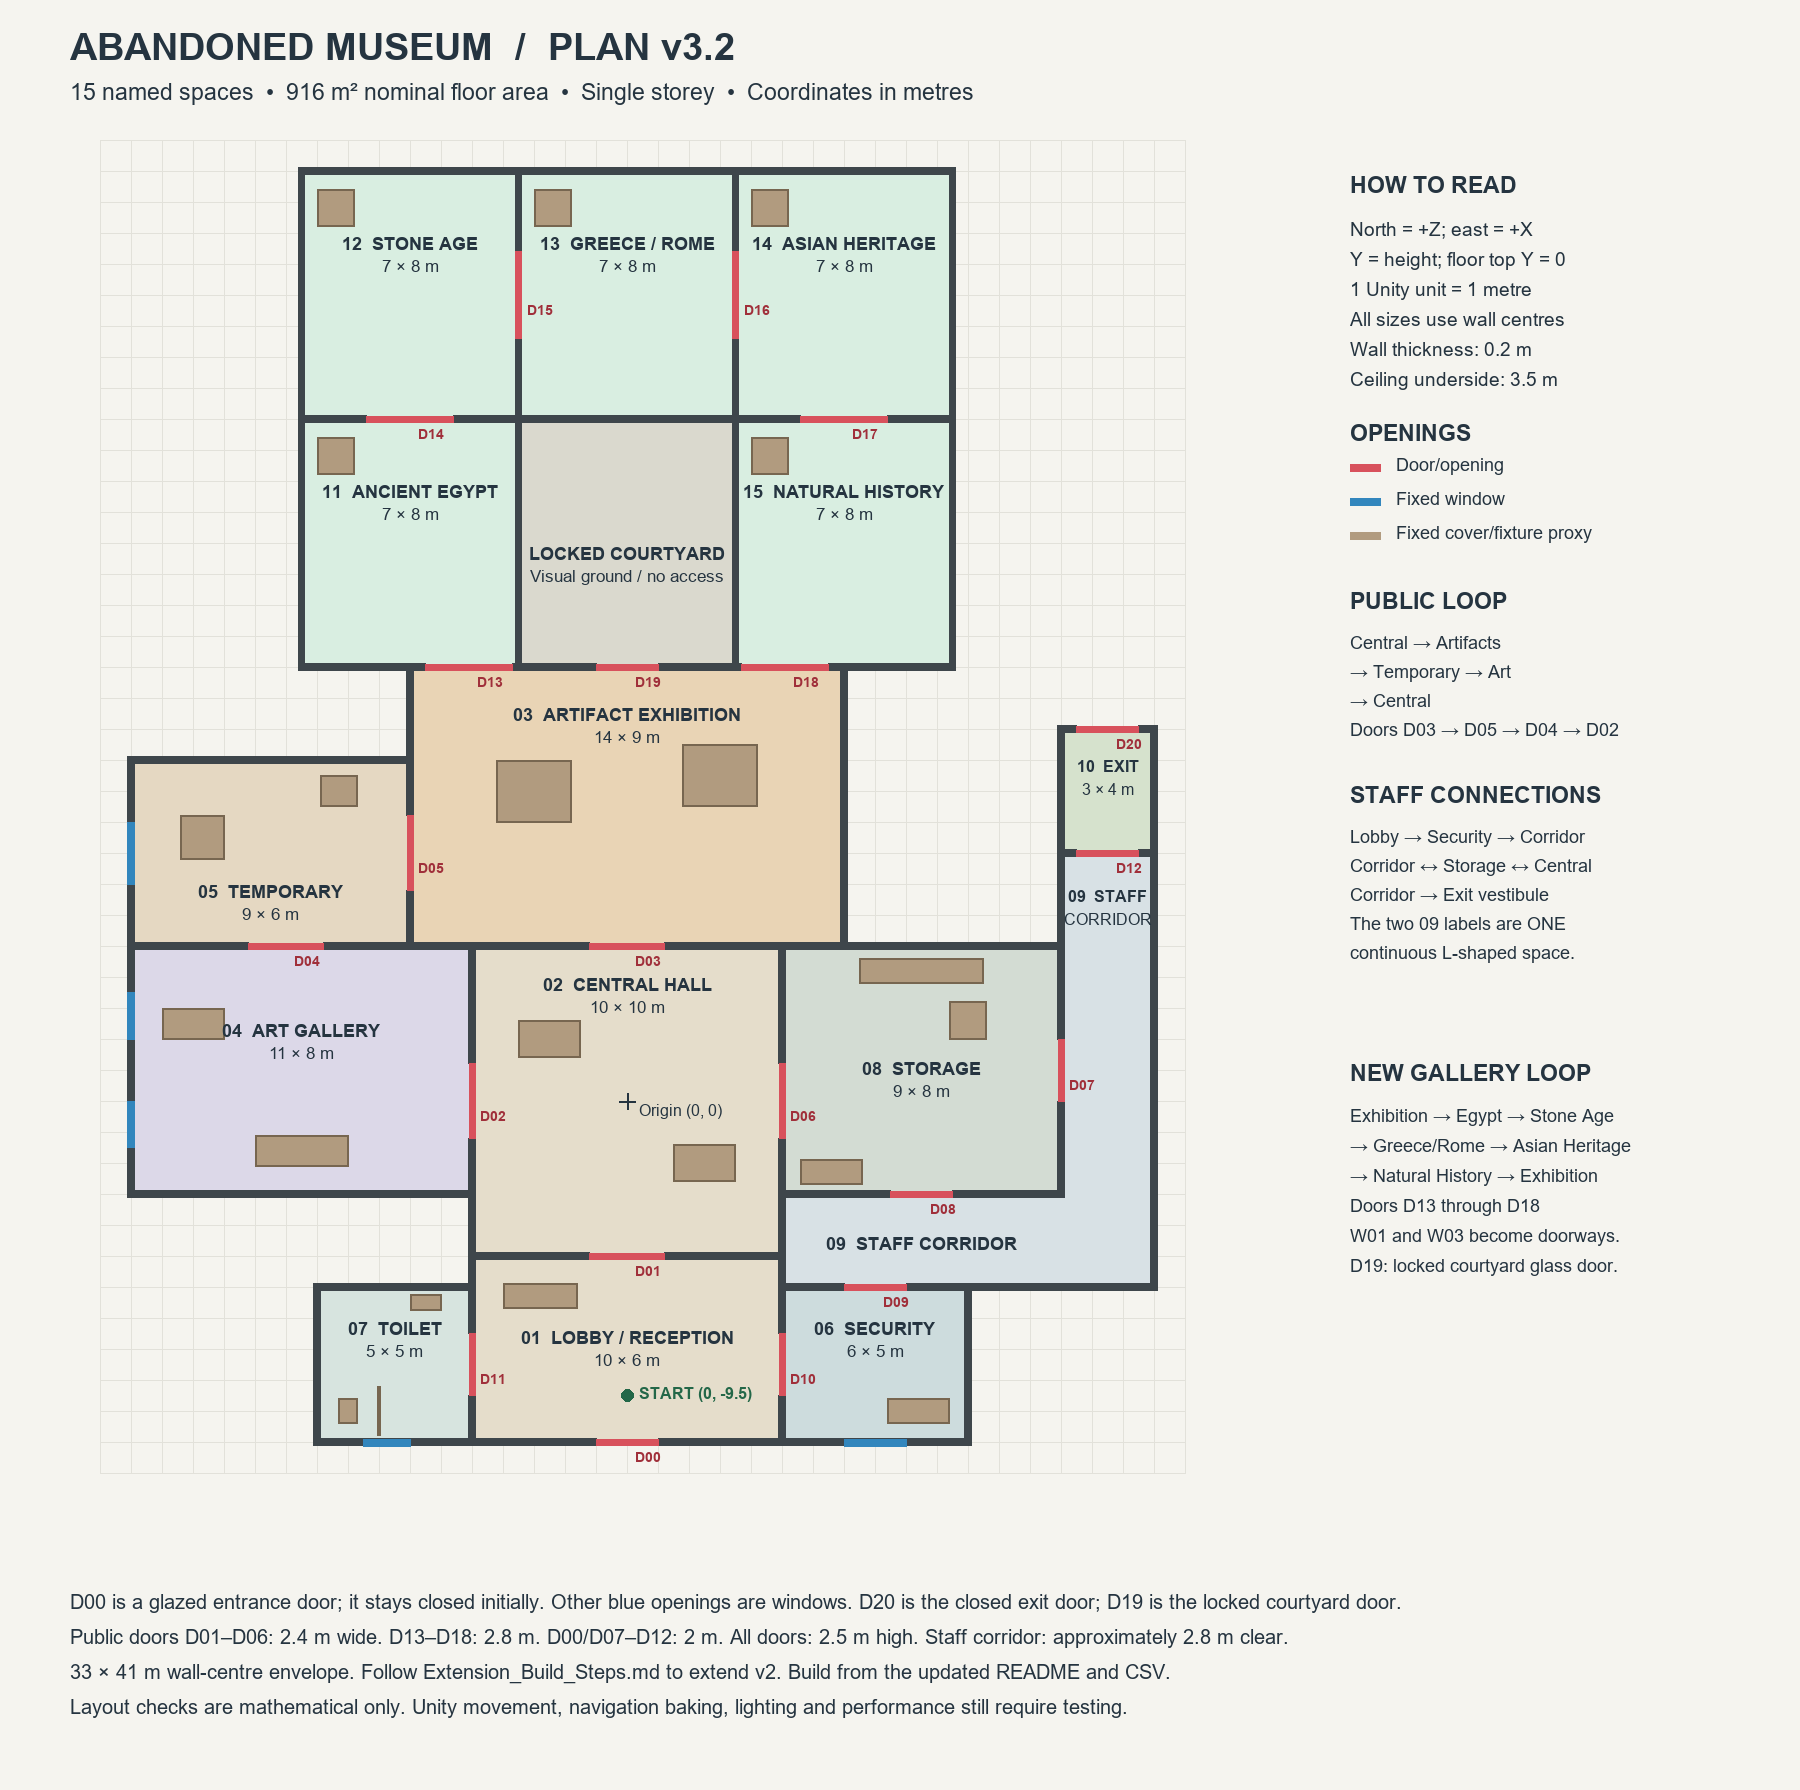
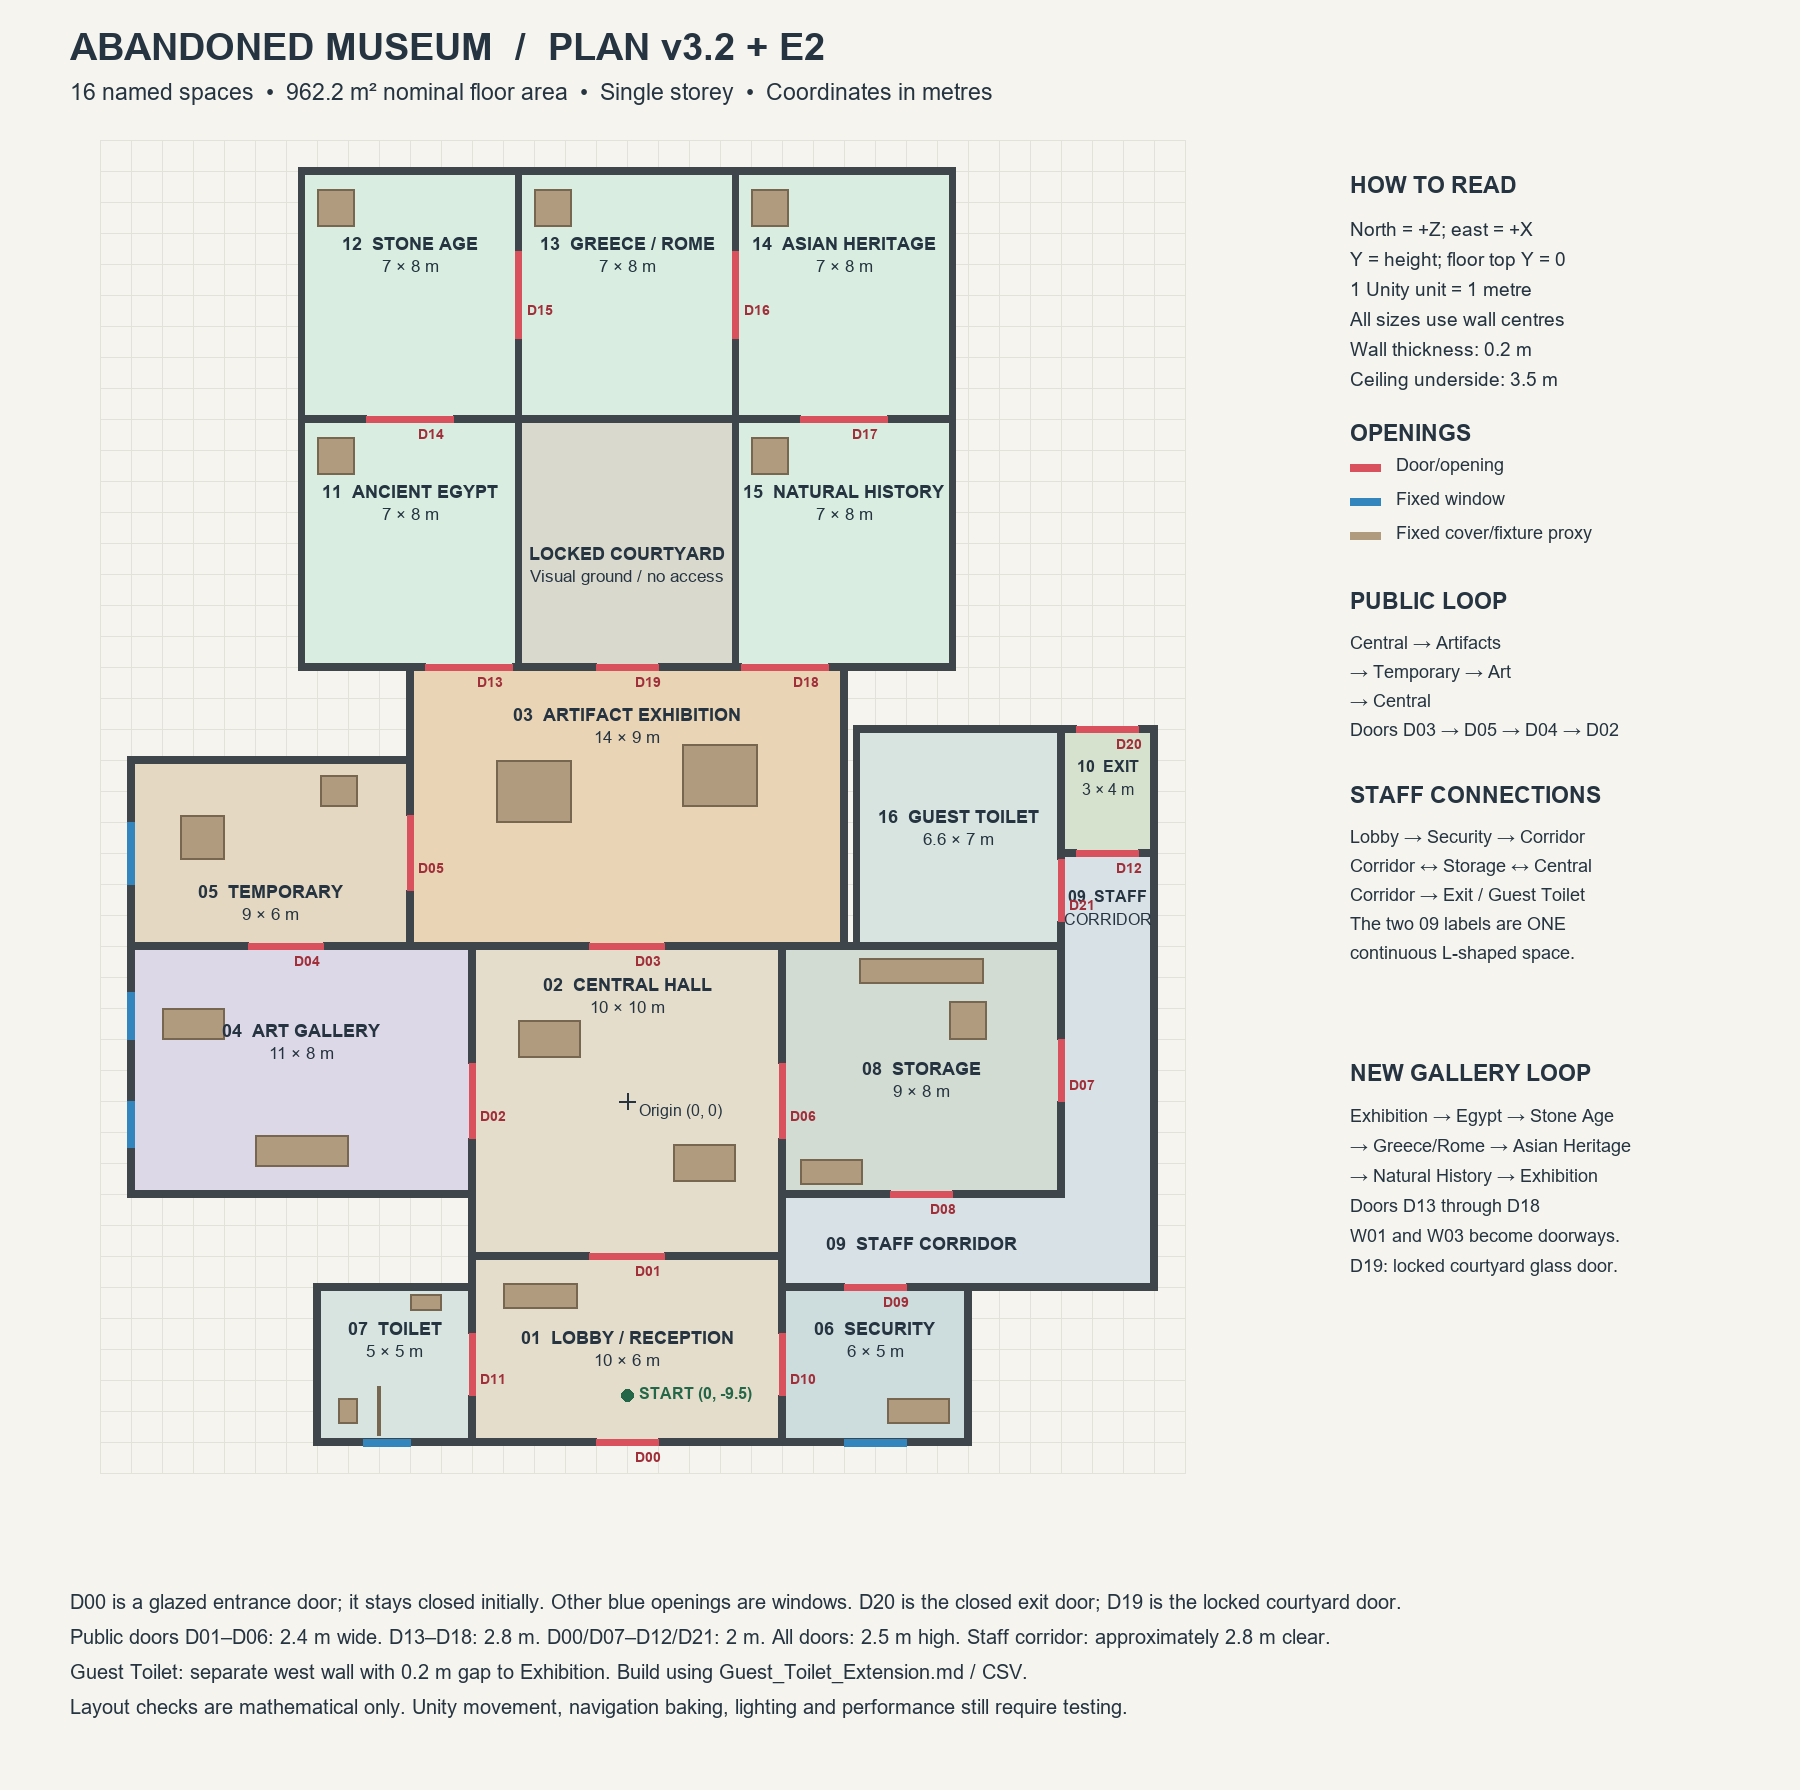
Update museum floor plan and world-building documentation

diff --git a/Docs/DesignDoc.md b/Docs/DesignDoc.md
@@ -1,5 +1,7 @@
 # System Architecture & Technical Design Document
 
+> **Room furniture P3 — 8 October 2026:** [Image-based object placement guide](WorldBuilder/Room_Object_Placement.md) now defines the furniture/exhibit coordinates for all fifteen spaces. It supersedes the earlier cover/decor proposals; shell v3.2 stays unchanged. Placement is planned, not applied to Unity.
+
 > **Current environment specification: museum v3.2, 15 spaces.** [WorldBuilder/README.md](WorldBuilder/README.md) contains the complete coordinate tables; [Extension_Build_Steps.md](WorldBuilder/Extension_Build_Steps.md) preserves the existing skeleton while adding the five-gallery loop. Use `Museum_Main.unity` under `Assets/_Project/Scenes/Museum`. D13–D18 are 2.8 m wide and 2.5 m high. W01/W03 become connections; W02 becomes locked courtyard door D19; W09 becomes closed exit door D20. Student 1 supplies static geometry and initial NavMesh, Student 2 supplies player/interactive physics, Student 3 original models, and Student 4 enemy movement/animation. Rebuild and test navigation after the extension. The legacy warehouse architecture below is not evidence of implemented systems or an instruction to replace the museum scene. Revision 3.2 includes 13 wall-end adjustments for corner closure; room footprints and doorway widths stay unchanged.
 
 ## Overview
@@ -76,3 +78,8 @@ Lockdown.Tests.EditMode
 - **Zero Engine Couplings in Core Math**: Heuristic and search algorithms in `Lockdown.AI.Core` should prioritize pure C# logic and mathematics where feasible, enabling rapid headless testing.
 - **Cross-Domain Communication**:
   - The Player controller (`Lockdown.Runtime` or `Player/`) must never directly reference concrete enemy AI classes (`Lockdown.AI.Agents`). Interaction must occur via `IDamageable`, `IPerceptionTarget`, or events registered on shared interfaces.
+
+> P3 toilet update (9 October 2026): follow Room_Object_Placement.md for the two cubicles and fixed-open damaged door panels. The old open-divider proposal is superseded. Shell v3.2 is unchanged.
+
+
+> Furniture correction P4 (9 October 2026): use the current Room_Object_Placement.md/CSV. Egypt and Natural History graphics now avoid doors; the Security monitor strip clears its window; Egypt gains a west-wall photo. P3 cubicles remain, with the W08 glazing junction clarified in the guide. Shell unchanged.

diff --git a/README.md b/README.md
@@ -1,5 +1,7 @@
 # No Way Out
 
+> **Room furniture P3 — 8 October 2026:** [Image-based object placement guide](Docs/WorldBuilder/Room_Object_Placement.md) now defines the furniture/exhibit coordinates for all fifteen spaces. It supersedes the earlier cover/decor proposals; shell v3.2 stays unchanged. Placement is planned, not applied to Unity.
+
 > **Current World Builder plan: abandoned museum v3.2 (15 spaces).** Use [the build manual](Docs/WorldBuilder/README.md), [extension-only steps](Docs/WorldBuilder/Extension_Build_Steps.md) and [floor plan](Docs/WorldBuilder/Museum_FloorPlan.png). Five northern themed galleries form a loop back to the Exhibition Hall. Existing room footprints stay; W01/W03 become wider connecting doorways W02 becomes locked courtyard door D19; W09 becomes exit door D20. Current scene: `Assets/_Project/Scenes/Museum/Museum_Main.unity`. This is an approved documentation plan; this update changes documents only; confirm current scene progress separately. The warehouse concept and architecture below remain legacy proposals, not current museum construction instructions. Revision 3.2 includes 13 wall-end adjustments for corner closure; room footprints and doorway widths stay unchanged.
 
 > A 3D stealth-action game set inside a rogue automated warehouse. Escape before the blast doors seal — if the AI lets you.
@@ -96,3 +98,8 @@ Open the project in Unity (URP). The project targets Unity 6 or later. Read [CON
 | [`Docs/AI/Stalker.md`](Docs/AI/Stalker.md) | Stalker — stealth hunter agent specification |
 | [`Docs/AIPerformanceLog.md`](Docs/AIPerformanceLog.md) | Benchmarking log: latency, GC alloc, draw calls |
 | [`Docs/OptimisationLog.md`](Docs/OptimisationLog.md) | Optimisation entries with before/after metrics |
+
+> P3 toilet update (9 October 2026): follow Room_Object_Placement.md for the two cubicles and fixed-open damaged door panels. The old open-divider proposal is superseded. Shell v3.2 is unchanged.
+
+
+> Furniture correction P4 (9 October 2026): use the current Room_Object_Placement.md/CSV. Egypt and Natural History graphics now avoid doors; the Security monitor strip clears its window; Egypt gains a west-wall photo. P3 cubicles remain, with the W08 glazing junction clarified in the guide. Shell unchanged.

diff --git a/Docs/ArtBible.md b/Docs/ArtBible.md
@@ -1,5 +1,7 @@
 # Abandoned museum — world art guide (plan v3.2)
 
+> **Room furniture P3 — 8 October 2026:** [Image-based object placement guide](WorldBuilder/Room_Object_Placement.md) now defines the furniture/exhibit coordinates for all fifteen spaces. It supersedes the earlier cover/decor proposals; shell v3.2 stays unchanged. Placement is planned, not applied to Unity.
+
 Use [the current World Builder manual](WorldBuilder/README.md) and [floor plan](WorldBuilder/Museum_FloorPlan.png). This is an art direction target, not a statement that assets or lighting have been completed.
 
 ## Shared style
@@ -23,3 +25,8 @@ Each new room is 7 × 8 m between wall centres. Keep theme differences in displa
 Use the manual's provisional lights, then evaluate with ceilings active. All five galleries share the public material palette and warm lighting family. Darker mood must still allow players to read enemies and openings. The central open-air gap stays inaccessible behind the locked glass door D19, with visual-only ground and no courtyard NavMesh; no playable courtyard is required.
 
 D13–D18 are 2.8 m wide × 2.5 m high. Preserve their approach space and primary routes when replacing greybox props. Re-test player and enemy movement after art/collider changes. Student 1 handles materials, lighting and static props; working doors and movable objects belong to Student 2.
+
+> P3 toilet update (9 October 2026): follow Room_Object_Placement.md for the two cubicles and fixed-open damaged door panels. The old open-divider proposal is superseded. Shell v3.2 is unchanged.
+
+
+> Furniture correction P4 (9 October 2026): use the current Room_Object_Placement.md/CSV. Egypt and Natural History graphics now avoid doors; the Security monitor strip clears its window; Egypt gains a west-wall photo. P3 cubicles remain, with the W08 glazing junction clarified in the guide. Shell unchanged.

diff --git a/Docs/WorldBuilder/README.md b/Docs/WorldBuilder/README.md
@@ -1,4 +1,11 @@
+
+
+> **Guest toilet extension E2 (9 October 2026):** Use Guest_Toilet_Extension.md and its CSV. Room footprint 6.6m by 7m. Reuse storage and corridor/exit walls only; add independent west and north walls. Do NOT use the exhibition wall. Four cubicles; 127 total props. Baseline shell CSV is pre-extension; Museum_FloorPlan_E2.png includes E2; this addendum overrides Wall_36_Solid. Unity untouched.
 # Abandoned Museum — Student 1 World Builder manual
+
+> **Furniture update P3 (9 October 2026):** Use [Room_Object_Placement.md](Room_Object_Placement.md) and [Room_Object_Placement.csv](Room_Object_Placement.csv) for the fifteen image-based room layouts. These replace the older Appendix B/Appendix D furniture proposals and FixedCover entries in Museum_Geometry.csv. Keep shell v3.2, courtyard ground and door panels. Do not build both furniture schemes. Lights remain provisional.
+
+
 
 **Plan v3.2 · 6 October 2026 · 15 named spaces · Current stage: extend the existing greybox**
 
@@ -788,3 +795,8 @@ Edit under Museum > Walls only. Keep Position Y=1.75, Rotation=(0,0,0), Scale Y=
 | Wall_50_Solid | (7.05, 1.75, 30) | (7.1, 3.5, 0.2) |
 
 At the storage junction change Wall_10_End only; keep Wall_35_Before_D07 unchanged. Wall_10_End retains X=10.5 at D08 and now ends at X=14.1. The exit-side changes preserve D20 at X=14.5 to 16.5.
+
+> P3 toilet update (9 October 2026): follow Room_Object_Placement.md for the two cubicles and fixed-open damaged door panels. The old open-divider proposal is superseded. Shell v3.2 is unchanged.
+
+
+> Furniture correction P4 (9 October 2026): use the current Room_Object_Placement.md/CSV. Egypt and Natural History graphics now avoid doors; the Security monitor strip clears its window; Egypt gains a west-wall photo. P3 cubicles remain, with the W08 glazing junction clarified in the guide. Shell unchanged.

diff --git a/Docs/OptimisationLog.md b/Docs/OptimisationLog.md
@@ -1,5 +1,7 @@
 # Museum world optimization log
 
+> **Room furniture P3 — 8 October 2026:** [Image-based object placement guide](WorldBuilder/Room_Object_Placement.md) now defines the furniture/exhibit coordinates for all fifteen spaces. It supersedes the earlier cover/decor proposals; shell v3.2 stays unchanged. Placement is planned, not applied to Unity.
+
 Current target: [museum v3.2](WorldBuilder/README.md), fifteen spaces and 916 m² nominal floor area. The five-room extension adds 280 m²; it does not establish acceptable performance. No runtime measurements have been recorded by this documentation update.
 
 ## Planned checks — Student 1
@@ -20,3 +22,8 @@ Fill this table only after testing. Keep comparable before/after conditions and 
 | Not tested | Museum_Main / v3.2 extension pending | No measurement yet | — | — | Complete extension and establish baseline |
 
 Coordinate validation in WorldBuilder/Plan_Validation.json is a mathematical planning check, not an FPS, physics or Unity NavMesh result.
+
+> P3 toilet update (9 October 2026): follow Room_Object_Placement.md for the two cubicles and fixed-open damaged door panels. The old open-divider proposal is superseded. Shell v3.2 is unchanged.
+
+
+> Furniture correction P4 (9 October 2026): use the current Room_Object_Placement.md/CSV. Egypt and Natural History graphics now avoid doors; the Security monitor strip clears its window; Egypt gains a west-wall photo. P3 cubicles remain, with the W08 glazing junction clarified in the guide. Shell unchanged.
